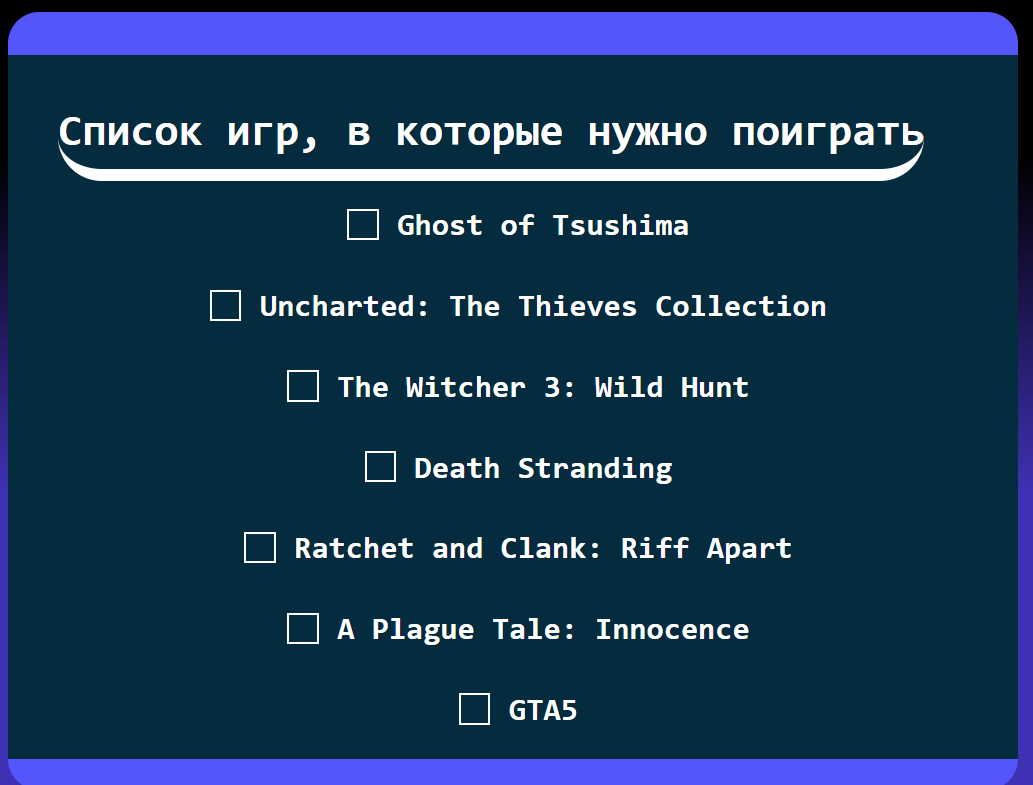
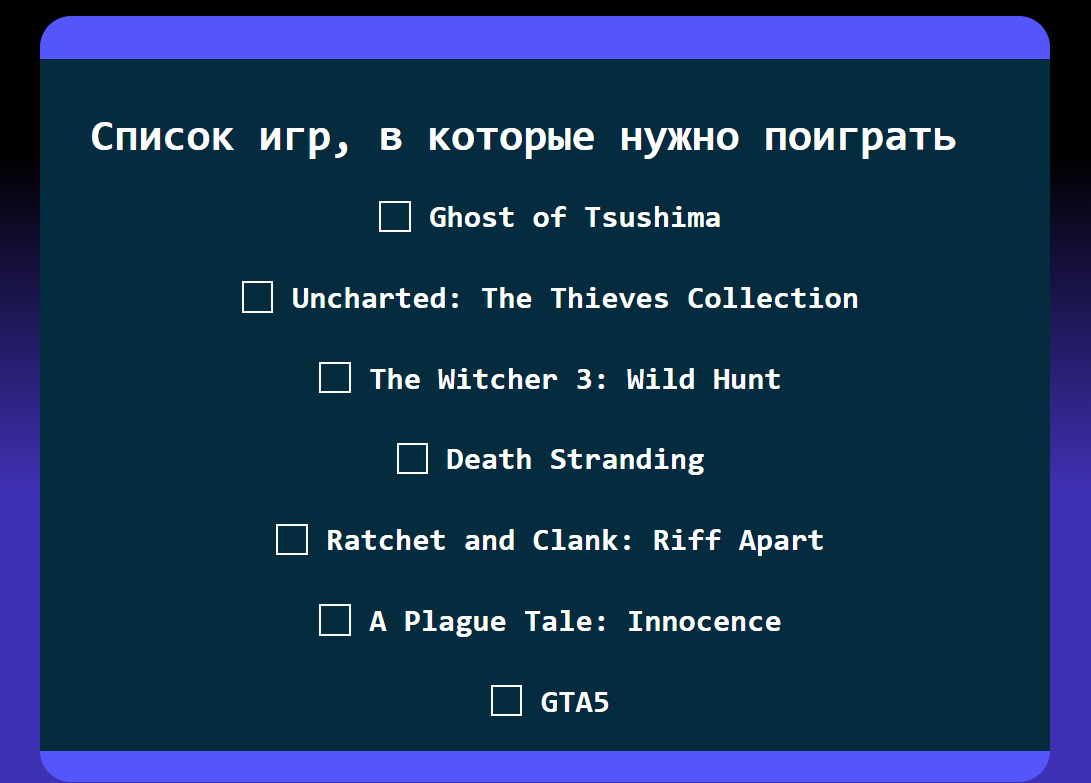
Updating media and img-portfolio in site-12
Updating media and img-portfolio in site-"GameList"

diff --git a/sites/site-12/GameList/style.css b/sites/site-12/GameList/style.css
@@ -13,8 +13,6 @@ body {
     justify-content: center;
     align-items: center;
     min-height: 100vh;
-    overflow: hidden;
-    /* background: #001925; */
     background: linear-gradient(180deg, rgba(0,0,0,1) 23%, rgba(63,49,179,1) 60%);
     color: white;
 }
@@ -27,19 +25,7 @@ body {
     font-size: 35px;
     padding: 10px 0;
     margin-left: 10px;
-    border-bottom: 10px white solid;
-    border-radius: 50px;
 }
-
-/* h3 {
-    display: inline-block;
-    color: white;
-    font-size: 35px;
-    padding: 10px 0;
-    margin-left: 10px;
-    border-bottom: 10px white solid;
-    border-radius: 50px;
-} */
 
 .gamelist {
     list-style: none;
@@ -47,7 +33,6 @@ body {
     background: #042b3e;
     display: flex;
     flex-direction: column;
-    /* flex-direction: column-reverse; */
     justify-content: center;
     align-items: center;
     padding: 30px 75px 10px 30px;
@@ -127,5 +112,9 @@ body {
 @media screen and (min-width: 300px) and (max-width: 800px) {
     .gamelist li {
         margin: 0;
+    }
+
+    body {
+        height: 145vh;
     }
 }
